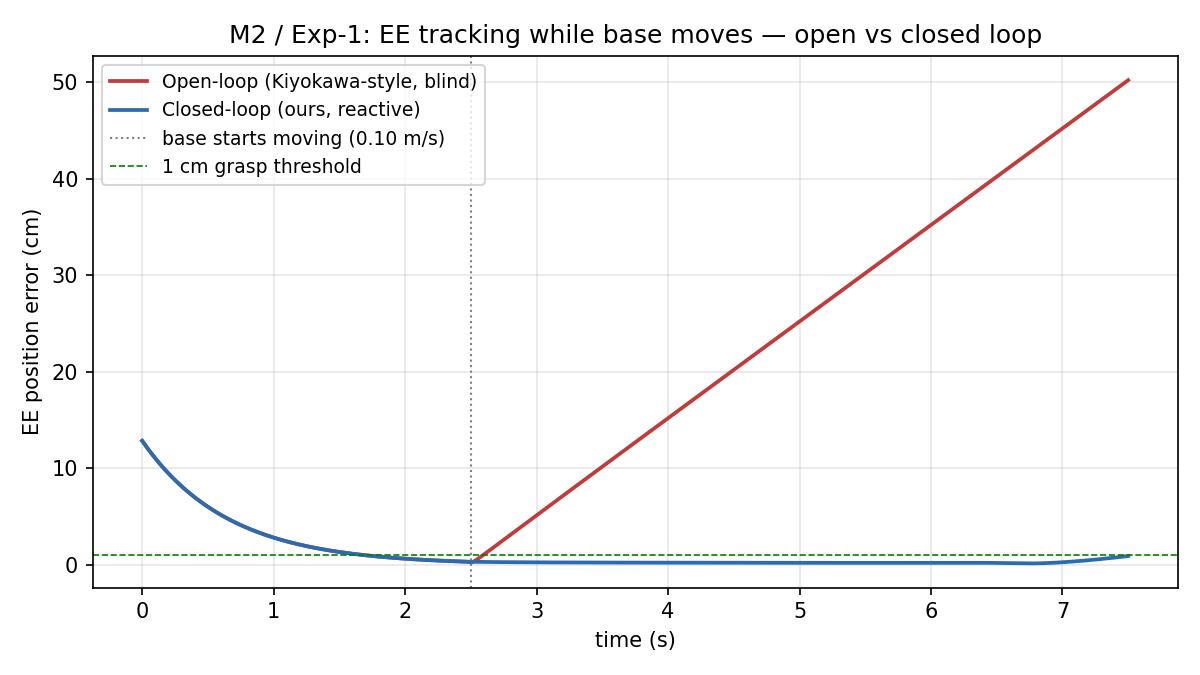
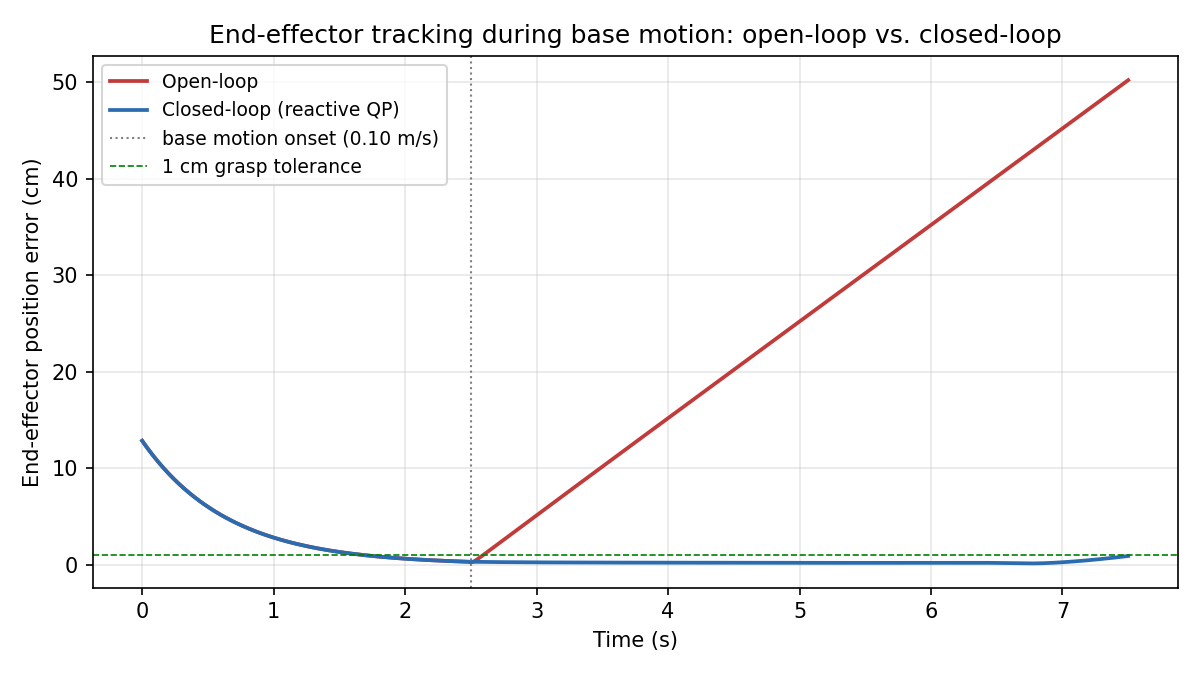
Neutral, publication-grade labels on the Exp-1 figure
Replace informal/pointed labels ("Kiyokawa-style, blind") with neutral
terminology ("Open-loop", "Closed-loop (reactive QP)") and formal axis
labels. Every artifact is shared with the co-author and must read as paper-ready.

diff --git a/swift_sim/plot_m2.py b/swift_sim/plot_m2.py
@@ -27,14 +27,14 @@ def main():
     drive_start = next(t for t, p in zip(tc, phc) if p == "drive")
 
     fig, ax = plt.subplots(figsize=(8, 4.5))
-    ax.plot(to, eo, label="Open-loop (Kiyokawa-style, blind)", color="#c23b3b", lw=1.8)
-    ax.plot(tc, ec, label="Closed-loop (ours, reactive)", color="#2b6cb0", lw=1.8)
+    ax.plot(to, eo, label="Open-loop", color="#c23b3b", lw=1.8)
+    ax.plot(tc, ec, label="Closed-loop (reactive QP)", color="#2b6cb0", lw=1.8)
     ax.axvline(drive_start, color="gray", ls=":", lw=1,
-               label="base starts moving (0.10 m/s)")
-    ax.axhline(1.0, color="green", ls="--", lw=0.8, label="1 cm grasp threshold")
-    ax.set_xlabel("time (s)")
-    ax.set_ylabel("EE position error (cm)")
-    ax.set_title("M2 / Exp-1: EE tracking while base moves — open vs closed loop")
+               label="base motion onset (0.10 m/s)")
+    ax.axhline(1.0, color="green", ls="--", lw=0.8, label="1 cm grasp tolerance")
+    ax.set_xlabel("Time (s)")
+    ax.set_ylabel("End-effector position error (cm)")
+    ax.set_title("End-effector tracking during base motion: open-loop vs. closed-loop")
     ax.legend(loc="upper left", fontsize=9)
     ax.grid(True, alpha=0.3)
     fig.tight_layout()